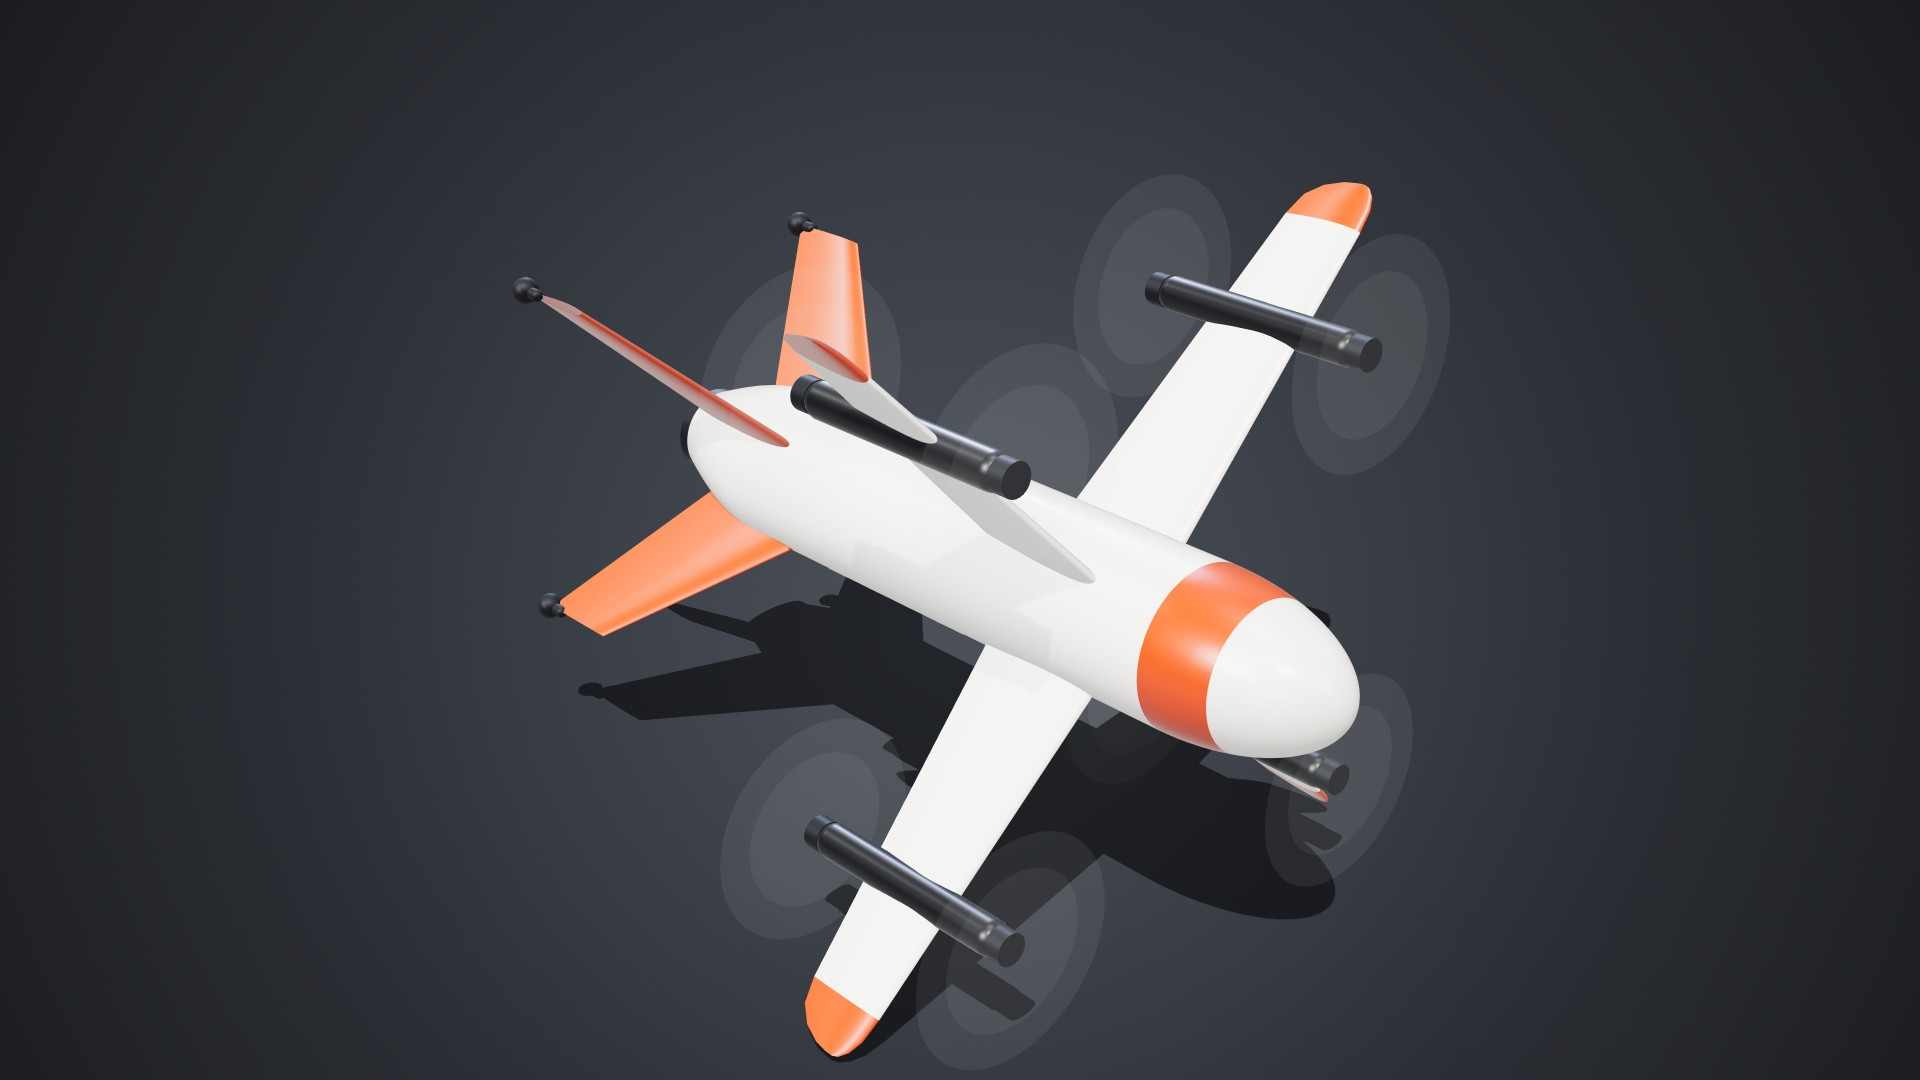
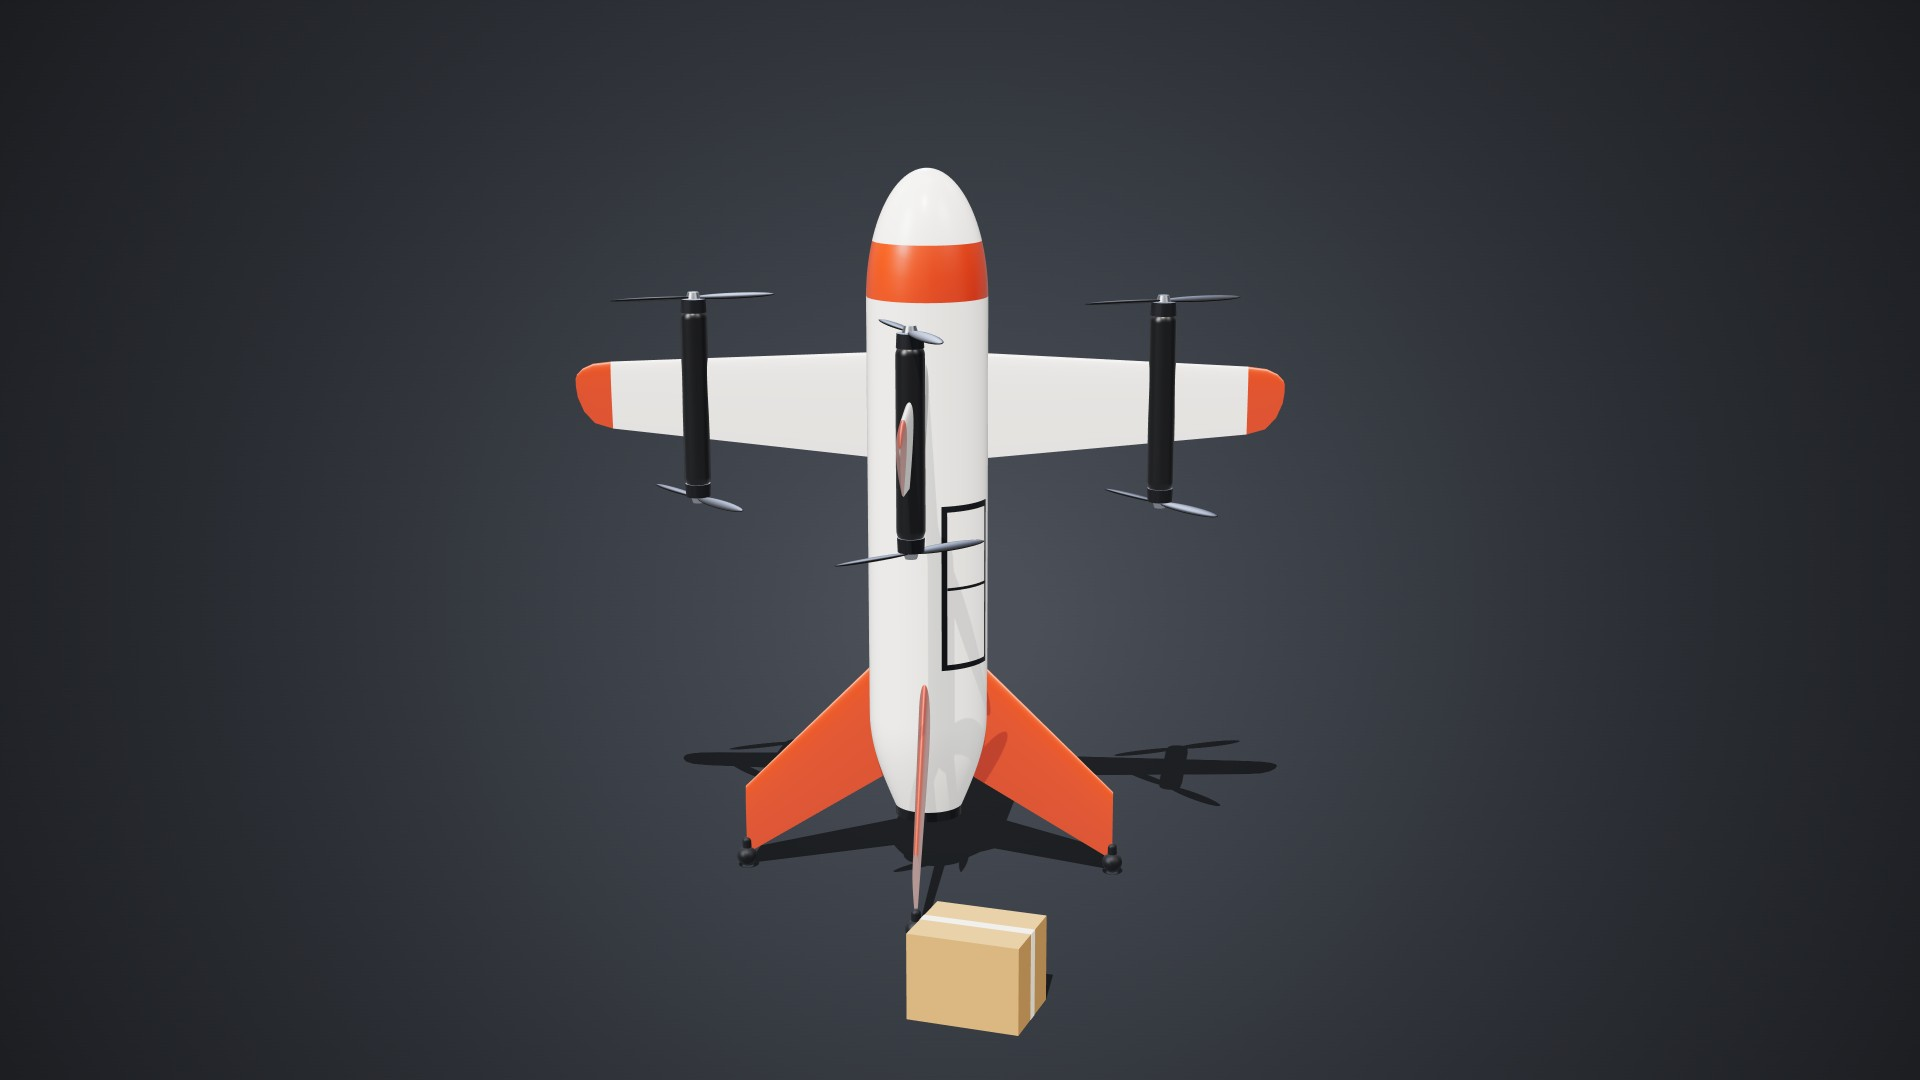
Show the S20 Shuttle standing in its product card

Changed region(s): [[0.2812, 0.1528, 0.7188, 0.9778], [0.2812, 0.275, 0.3125, 0.3056]]

diff --git a/index.html b/index.html
@@ -139,7 +139,7 @@
       </div>
     </div>
     <div class="stage">
-      <img src="img/s20.jpg" width="1920" height="1080" loading="lazy" alt="The S20 Shuttle, a cylindrical cargo aircraft with four wings in an X.">
+      <img src="img/s20.jpg" width="1920" height="1080" loading="lazy" alt="The S20 Shuttle standing on its tail fins, a cylindrical cargo aircraft with four wings in an X, with a parcel beside it.">
       <div class="txt">
         <div class="num">S20 · Short hops</div>
         <h3>Shuttle</h3>
